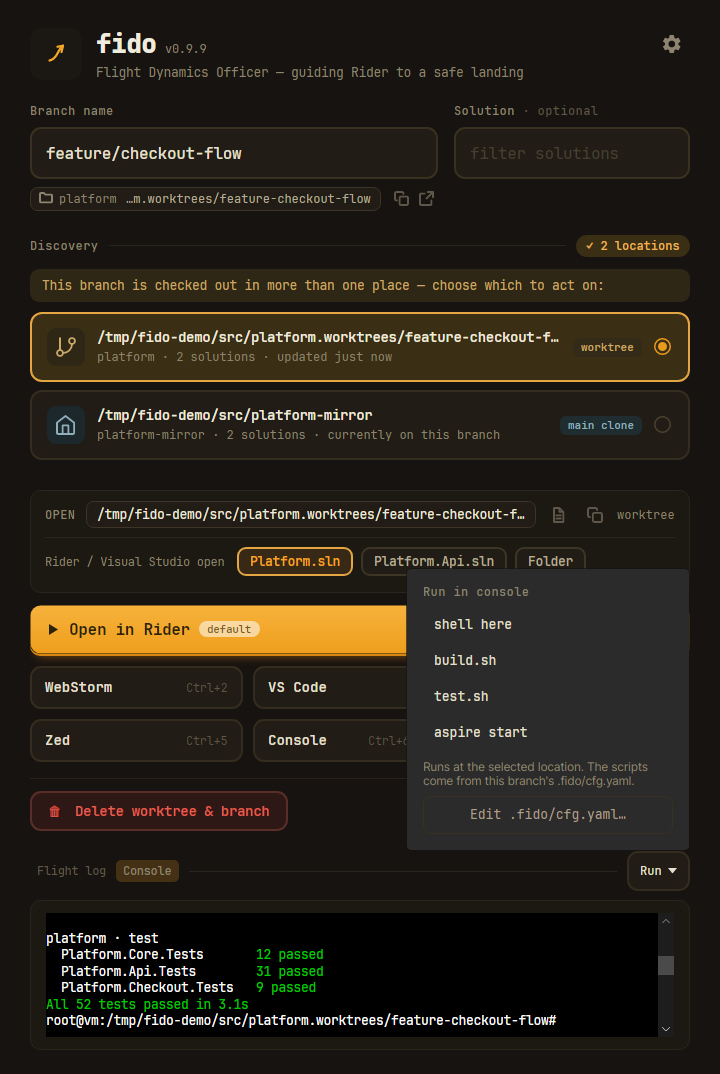
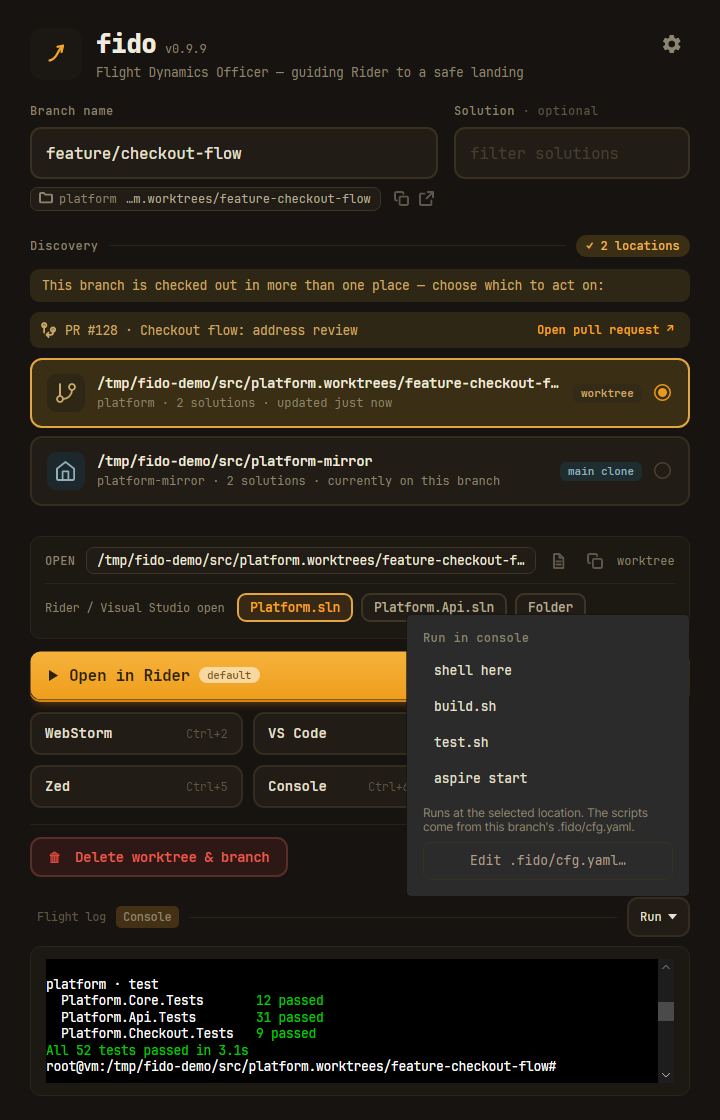
Show the pull request row in the docs gallery
The gallery shots predate the feature, so the documentation described a row
the pictures didn't have. Regenerated, with gh scripted per branch the way
every other outside world here is: feature/checkout-flow carries PR #128, so
the home screen, the discovery results and the README hero all show the row
and the flight log's link; feature/api-cleanup carries none, so the placement
shot shows the other answer -- "No open pull request ... on GitHub."

Each shot is now grown to fit its content first. SizeToContent stops at the
screen's working area and the headless screen is 1080 tall, which was already
slicing the Cancel/Delete buttons off the delete-confirm shot before this
branch and would have cut the delete row off every shot carrying the new row.
The overflow is read off the scroller rather than guessed, and the window is
returned to its natural height between states so a tall one doesn't leave the
next shot rattling around in its box.

Screenshots page says what the row is and links to the guide.

Claude-Session: https://claude.ai/code/session_01WMqAR5AdQH56vR3y2bPdiL

diff --git a/tests/Fido.Tests/E2E/GalleryScreenshotTests.cs b/tests/Fido.Tests/E2E/GalleryScreenshotTests.cs
@@ -1,5 +1,6 @@
 using System.IO;
 using Avalonia.Controls;
+using Avalonia.Layout;
 using Fido.Models;
 using Fido.Services;
 using Fido.Tests.Infrastructure;
@@ -88,9 +89,12 @@ public class GalleryScreenshotTests
             OpenUrl = new FakeBrowser().Open,
             // Scripted, like every other outside world here: the demo's origin is a folder on disk, so a
             // real gh would only ever fail — and the gallery would show the branch's pull-request row as
-            // an apology instead of as the feature it is.
-            GitHub = FakeGitHub.WithOpenPr(128, "https://github.com/acme/platform/pull/128",
-                "Checkout flow: address review"),
+            // an apology instead of as the feature it is. Answered per branch, so the shots carry both
+            // states: feature/checkout-flow has a PR open, feature/api-cleanup doesn't.
+            GitHub = new GitHubCli((_, args, _) => Task.FromResult(new ProcessResult(0,
+                args.SkipWhile(a => a != "--head").Skip(1).FirstOrDefault() == "feature/checkout-flow"
+                    ? """[{"number":128,"title":"Checkout flow: address review","url":"https://github.com/acme/platform/pull/128"}]"""
+                    : "[]", ""))),
         };
 
         await Harness.WithWindow(services, async window =>
@@ -105,6 +109,7 @@ public class GalleryScreenshotTests
                     UiTestExtensions.Pump();
                     if (arrange is not null) await arrange();
                     UiTestExtensions.Pump();
+                    FitWindowToContent(window);
                     Screenshots.Save(window, $"{name}-{suffix}");
                 }
             }
@@ -154,11 +159,13 @@ public class GalleryScreenshotTests
                 pane.UseFidoPalette = false;
                 await window.RunConsoleOptionAsync(script);
                 await SettleAsync(TimeSpan.FromSeconds(12));   // let the shell start, run and paint
+                FitWindowToContent(window);
                 Screenshots.Save(window, $"console-tab-{suffix}");
 
                 runMenu.Flyout?.ShowAt(runMenu);
                 UiTestExtensions.Pump();
                 await SettleAsync(TimeSpan.FromSeconds(1));
+                FitWindowToContent(window);
                 Screenshots.Save(window, $"console-run-menu-{suffix}");
                 runMenu.Flyout?.Hide();
                 UiTestExtensions.Pump();
@@ -167,6 +174,7 @@ public class GalleryScreenshotTests
                 pane.UseFidoPalette = true;
                 await window.RunConsoleOptionAsync(script);
                 await SettleAsync(TimeSpan.FromSeconds(12));
+                FitWindowToContent(window);
                 Screenshots.Save(window, $"console-palette-{suffix}");
                 pane.UseFidoPalette = false;
             }
@@ -183,6 +191,7 @@ public class GalleryScreenshotTests
             UiTestExtensions.Pump();
             await window.OpenWithAsync(new Editor { Name = "WebStorm", Kind = EditorKind.WebStorm });
             UiTestExtensions.Pump();
+            FitWindowToContent(window);
             Screenshots.Save(window, "the-eagle-has-landed");
 
             App.ApplyTheme(AppTheme.System);
@@ -206,6 +215,40 @@ public class GalleryScreenshotTests
         });
 
         ForceDelete(demo);
+    }
+
+    /// <summary>
+    /// Grows the window until its upper stack fits, so a gallery shot shows the screen whole.
+    ///
+    /// <para><c>SizeToContent="Height"</c> stops at the screen's working area, and the headless screen is
+    /// 1080 tall — so the taller states (the delete confirm, anything carrying the pull-request row) used
+    /// to be captured mid-scroll, with the confirm's own buttons sliced off the bottom. The window is
+    /// resizable and a real screen is usually taller, so the clipping is the harness's, not Fido's, and
+    /// the gallery shouldn't hand it on to the documentation. The overflow is read off the scroller
+    /// itself rather than guessed at, and re-read after each growth (a taller window gives the flight log
+    /// more room, which can change the sum), so this settles at the height the content actually wants.</para>
+    /// </summary>
+    private static void FitWindowToContent(MainWindow window)
+    {
+        var scroller = window.FindControl<ScrollViewer>("MainScroller");
+        if (scroller is null) return;
+
+        // Back to the natural height first: growth is one-way, so without this a state would inherit the
+        // window a taller one left behind and be shot in a box with room to spare.
+        window.ClearValue(Layoutable.HeightProperty);   // an explicit height outlives SizeToContent
+        window.SizeToContent = SizeToContent.Height;
+        UiTestExtensions.Pump();
+
+        window.SizeToContent = SizeToContent.Manual;   // else the screen clamp undoes every growth
+        for (var pass = 0; pass < 6; pass++)
+        {
+            UiTestExtensions.Pump();
+            var overflow = scroller.Extent.Height - scroller.Viewport.Height;
+            if (overflow <= 0.5) return;
+            // Grown from the height the window actually has: the Height property reads NaN until
+            // something sets it, so adding to it would only ever produce NaN.
+            window.Height = window.Bounds.Height + Math.Ceiling(overflow);
+        }
     }
 
     /// <summary>

diff --git a/docs/screenshots.md b/docs/screenshots.md
@@ -21,6 +21,11 @@ button launches your **default tool** (the rest sit in the grid, ++ctrl+1++ … 
 panel at the foot carries two tabs: the **Flight log**, reporting each step as Fido "goes around
 the horn", and the **Console**.
 
+Above the cards sits the branch's **open pull request**, when it has one — `PR #128 · Checkout flow:
+address review`, one click from the browser. Fido asks GitHub afresh on every scan that finds the
+branch, so the row reports the PR as it stands rather than as it once was; see
+[The branch's pull request](guide/discovery.md#the-branchs-pull-request).
+
 ![Fido home screen](assets/screenshots/home-screen-light.png#only-light)
 ![Fido home screen](assets/screenshots/home-screen-dark.png#only-dark)
 
@@ -38,6 +43,9 @@ chips.
 ![Inline discovery results with target cards](assets/screenshots/open-dialog-dark.png#only-dark)
 
 ---
+
+A branch with **no** open pull request simply has no row — and the flight log says which of the two
+silences it is, so a missing `gh` is never mistaken for a branch that is clear to delete.
 
 ## Placing a branch that isn't checked out anywhere
 
